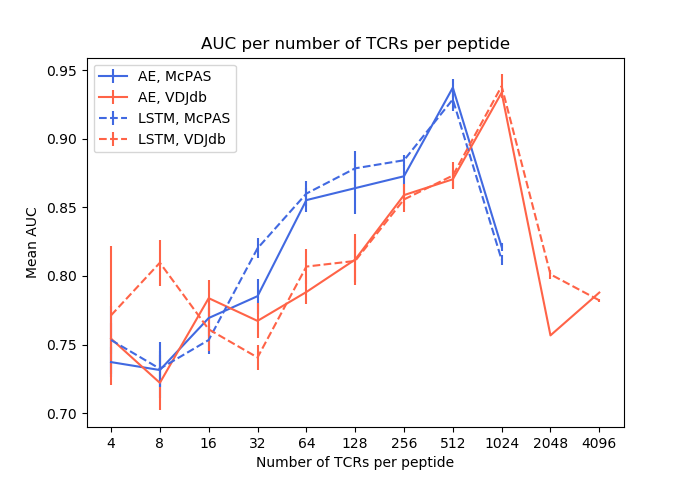
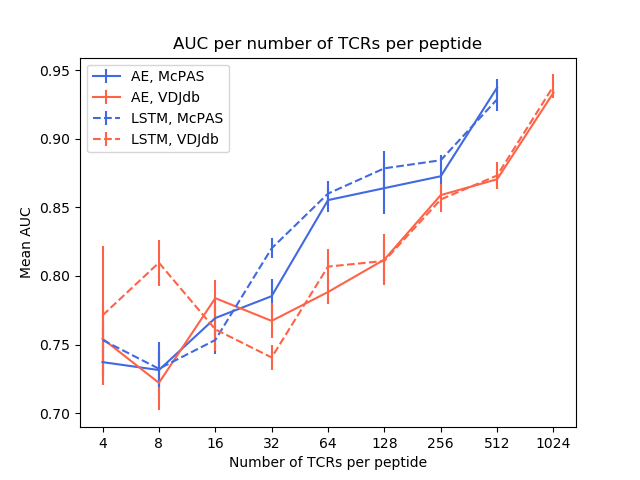
figure updates

diff --git a/plots.py b/plots.py
@@ -8,6 +8,7 @@ import ergo_data_loader
 from scipy import stats
 from sklearn.metrics import roc_auc_score
 
+
 # Table 1 - SPB
 def spb_auc(args, peps):
     dir = 'final_results'
@@ -21,6 +22,32 @@ def spb_auc(args, peps):
         for k, pep in enumerate(peps):
             try:
                 auc = eval.single_peptide_score(args, model, test_data, pep, None)[0]
+                # print(pep, auc)
+                aucs[k, i - 1] = auc
+            except ValueError:
+                print('None')
+            except IndexError:
+                print('None')
+    print(aucs)
+    aucs = ma.array(aucs, mask=aucs == 0)
+    # print(aucs)
+    print(ma.mean(aucs, axis=1))
+
+
+def protein_auc(args):
+    dir = 'final_results'
+    protein_peps = eval.protein_pep_dict(args)
+    proteins = eval.freq_proteins(args, 5)[0]
+    aucs = np.zeros((len(proteins), 5))
+    for i in range(1, 5 + 1):
+        args.model_file = dir + '/' + '_'.join([args.model_type, args.dataset + str(i) + '.pt'])
+        args.train_data_file = dir + '/' + '_'.join([args.model_type, args.dataset, 'train' + str(i) + '.pickle'])
+        args.test_data_file = dir + '/' + '_'.join([args.model_type, args.dataset, 'test' + str(i) + '.pickle'])
+        model, data = eval.load_model_and_data(args)
+        train_data, test_data = data
+        for k, protein in enumerate(proteins):
+            try:
+                auc = eval.single_protein_score(args, model, test_data, protein, protein_peps)[0]
                 # print(pep, auc)
                 aucs[k, i - 1] = auc
             except ValueError:
@@ -96,7 +123,7 @@ def mps_acc(args):
     dkeys = {'mcpas': 0, 'vdjdb': 1}
     num_classes = 10
     iterations = 5
-    acc_matrix = np.zeros((2, 2, num_classes - 1, iterations))
+    acc_matrix = np.zeros((2, 2, num_classes - 1 + len([20, 30]), iterations))
     for model_type in mkeys.keys():
         args.model_type = model_type
         for dataset in dkeys.keys():
@@ -108,21 +135,27 @@ def mps_acc(args):
                 model, data = eval.load_model_and_data(args)
                 train_data, test_data = data
                 new_test_tcrs, new_test_peps = eval.extract_new_tcrs_and_peps(train_data, test_data)
-                _, accs = eval.multi_peptide_score(args, model, test_data, new_test_tcrs, num_classes)
+                _, accs = eval.multi_peptide_score(args, model, test_data, new_test_tcrs, 30)
                 print(accs)
-                acc_matrix[mkeys[model_type], dkeys[dataset], :, iter - 1] = accs
+                acc_matrix[mkeys[model_type], dkeys[dataset], :num_classes - 1, iter - 1] = accs[:num_classes - 1]
+                acc_matrix[mkeys[model_type], dkeys[dataset], -2, iter - 1] = accs[20 - 2]
+                acc_matrix[mkeys[model_type], dkeys[dataset], -1, iter - 1] = accs[-1]
     print(acc_matrix)
     mean = np.mean(acc_matrix, axis=3)
     std = np.std(acc_matrix, axis=3)
     classes = range(2, num_classes + 1)
-    plt.errorbar(classes, mean[0, 0], yerr=std[0, 0], label='AE, McPAS', color='royalblue', linestyle='-')
-    plt.errorbar(classes, mean[0, 1], yerr=std[0, 0], label='AE, VDJdb', color='tomato', linestyle='-')
-    plt.errorbar(classes, mean[1, 0], yerr=std[1, 0], label='LSTM, McPAS', color='royalblue', linestyle='--')
-    plt.errorbar(classes, mean[1, 1], yerr=std[1, 1], label='LSTM, VDJdb', color='tomato', linestyle='--')
+    plt.errorbar(classes, mean[0, 0, :num_classes - 1], yerr=std[0, 0, :num_classes - 1], label='AE, McPAS', color='royalblue', linestyle='-')
+    plt.errorbar([num_classes+1,num_classes+2], mean[0, 0, -2:], yerr=std[0, 0, -2:], color='royalblue', fmt='o')
+    plt.errorbar(classes, mean[0, 1, :num_classes - 1], yerr=std[0, 0, :num_classes - 1], label='AE, VDJdb', color='tomato', linestyle='-')
+    plt.errorbar([num_classes+1,num_classes+2], mean[0, 1, -2:], yerr=std[0, 1, -2:], color='tomato', fmt='o')
+    plt.errorbar(classes, mean[1, 0, :num_classes - 1], yerr=std[1, 0, :num_classes - 1], label='LSTM, McPAS', color='royalblue', linestyle='--')
+    plt.errorbar([num_classes+1,num_classes+2], mean[1, 0, -2:], yerr=std[1, 0, -2:], color='royalblue', fmt='o')
+    plt.errorbar(classes, mean[1, 1, :num_classes - 1], yerr=std[1, 1, :num_classes - 1], label='LSTM, VDJdb', color='tomato', linestyle='--')
+    plt.errorbar([num_classes+1,num_classes+2], mean[1, 1, -2:], yerr=std[1, 1, -2:], color='tomato', fmt='o')
     plt.legend()
     plt.title('MPS Accuracy per number of classes')
     plt.xlabel('Number of classes')
-    plt.xticks(classes)
+    plt.xticks(range(2, num_classes + 1 + 2), list(classes) + [20, 30])
     plt.ylabel('Mean accuracy')
     plt.show()
 
@@ -314,6 +347,8 @@ def num_tcrs_bins_auc(args):
                 for pep in pep_probs:
                     samples_count = len(pep_probs[pep])
                     bin = int(np.floor(np.log2(samples_count)))
+                    if bin >= 10:
+                        print(pep)
                     try:
                         bins[bin].extend(pep_probs[pep])
                     except KeyError:
@@ -328,11 +363,11 @@ def num_tcrs_bins_auc(args):
     print(bin_aucs)
     mean = np.mean(bin_aucs, axis=2)
     sem = stats.sem(bin_aucs, axis=2)
-    xbins = range(2, 13)
-    plt.errorbar(xbins, mean[0, 0][2:13], yerr=sem[0, 0][2:13], label='AE, McPAS', color='royalblue', linestyle='-')
-    plt.errorbar(xbins, mean[0, 1][2:13], yerr=sem[0, 0][2:13], label='AE, VDJdb', color='tomato', linestyle='-')
-    plt.errorbar(xbins, mean[1, 0][2:13], yerr=sem[1, 0][2:13], label='LSTM, McPAS', color='royalblue', linestyle='--')
-    plt.errorbar(xbins, mean[1, 1][2:13], yerr=sem[1, 1][2:13], label='LSTM, VDJdb', color='tomato', linestyle='--')
+    xbins = range(2, 11)
+    plt.errorbar(xbins[:-1], mean[0, 0][2:10], yerr=sem[0, 0][2:10], label='AE, McPAS', color='royalblue', linestyle='-')
+    plt.errorbar(xbins, mean[0, 1][2:11], yerr=sem[0, 0][2:11], label='AE, VDJdb', color='tomato', linestyle='-')
+    plt.errorbar(xbins[:-1], mean[1, 0][2:10], yerr=sem[1, 0][2:10], label='LSTM, McPAS', color='royalblue', linestyle='--')
+    plt.errorbar(xbins, mean[1, 1][2:11], yerr=sem[1, 1][2:11], label='LSTM, VDJdb', color='tomato', linestyle='--')
     plt.legend()
     plt.title('AUC per number of TCRs per peptide')
     plt.xlabel('Number of TCRs per peptide')
@@ -371,8 +406,14 @@ if __name__ == '__main__':
         peptides = ['GLCTLVAML', 'NLVPMVATV', 'GILGFVFTL']
         spb_roc(args, peptides)
     elif args.function == 'spb_auc':
+        print('Dash peptides')
         peptides = ['GLCTLVAML', 'NLVPMVATV', 'GILGFVFTL']
         spb_auc(args, peptides)
+        print('20 Frequent peptides')
+        freq = eval.freq_proteins(args, 5)[2]
+        print(freq)
+        spb_auc(args, freq)
+        '''
         vdjdb_peps = ["IPSINVHHY", "TPRVTGGGAM", "NLVPMVATV", "GLCTLVAML", "RAKFKQLL",
                       "YVLDHLIVV", "GILGFVFTL", "PKYVKQNTLKLAT", "CINGVCWTV", "KLVALGINAV",
                       "ATDALMTGY", "RPRGEVRFL", "LLWNGPMAV", "GTSGSPIVNR", "GTSGSPIINR",
@@ -380,6 +421,7 @@ if __name__ == '__main__':
                       "GPGHKARVL", "FLKEKGGL"]
         if args.dataset == 'vdjdb':
             spb_auc(args, vdjdb_peps)
+        '''
     elif args.function == 'ttp':
         ttp_roc(args)
     elif args.function == 'mis_pos':
@@ -390,4 +432,7 @@ if __name__ == '__main__':
         tcr_per_pep_dist()
     elif args.function == 'tcr_count_auc':
         num_tcrs_bins_auc(args)
+    elif args.function == 'protein':
+        protein_auc(args)
+
 

diff --git a/evaluation_methods.py b/evaluation_methods.py
@@ -120,9 +120,9 @@ def extract_new_tcrs_and_peps(train_data, test_data):
     new_test_peps = set(test_peps).difference(set(train_peps))
     # print(len(new_test_tcrs), len(set(test_tcrs)))
     # print(len(new_test_peps), len(set(test_peps)), len(set(train_peps)))
-    print('test data', len(test_data))
-    print('new test tcrs', len(new_test_tcrs))
-    print('new test peps', len(new_test_peps))
+    # print('test data', len(test_data))
+    # print('new test tcrs', len(new_test_tcrs))
+    # print('new test peps', len(new_test_peps))
     return new_test_tcrs, new_test_peps
 
 
@@ -136,6 +136,133 @@ def single_peptide_score(args, model, test_data, pep, neg_type=None):
     signs_to_prob = {'n': 0.0, 'p': 1.0}
     signs = [signs_to_prob[p[2]] for p in test_data if p[1][0] == pep]
     peps = [pep] * len(tcrs)
+
+    # todo find a way to global it
+    # Word to index dictionary
+    amino_acids = [letter for letter in 'ARNDCEQGHILKMFPSTWYV']
+    if args.model_type == 'lstm':
+        amino_to_ix = {amino: index for index, amino in enumerate(['PAD'] + amino_acids)}
+    if args.model_type == 'ae':
+        pep_atox = {amino: index for index, amino in enumerate(['PAD'] + amino_acids)}
+        tcr_atox = {amino: index for index, amino in enumerate(amino_acids + ['X'])}
+    max_len = 28
+    batch_size = 50
+
+    if args.model_type == 'ae':
+        test_batches = ae.get_full_batches(tcrs, peps, signs, tcr_atox, pep_atox, batch_size, max_len)
+        test_auc, roc = ae.evaluate_full(model, test_batches, args.device)
+    if args.model_type == 'lstm':
+        lstm.convert_data(tcrs, peps, amino_to_ix)
+        test_batches = lstm.get_full_batches(tcrs, peps, signs, batch_size, amino_to_ix)
+        test_auc, roc = lstm.evaluate_full(model, test_batches, args.device)
+    return test_auc, roc
+
+
+def protein_pep_dict(args):
+    if args.dataset == 'mcpas':
+        datafile = r'data/McPAS-TCR.csv'
+    elif args.dataset == 'vdjdb':
+        datafile = r'data/VDJDB_complete.tsv'
+    protein_peps = {}
+    with open(datafile, 'r', encoding='unicode_escape') as file:
+        file.readline()
+        if args.dataset == 'mcpas':
+            reader = csv.reader(file)
+        elif args.dataset == 'vdjdb':
+            reader = csv.reader(file, delimiter='\t')
+        for line in reader:
+            if args.dataset == 'mcpas':
+                pep, protein = line[11], line[9]
+                if protein == 'NA' or pep == 'NA':
+                    continue
+            elif args.dataset == 'vdjdb':
+                pep, protein = line[9], line[10]
+                if protein == 'NA' or pep == 'NA':
+                    continue
+            try:
+                protein_peps[protein].append(pep)
+            except KeyError:
+                protein_peps[protein] = [pep]
+    return protein_peps
+
+
+def freq_proteins(args, k):
+    if args.dataset == 'mcpas':
+        datafile = r'data/McPAS-TCR.csv'
+    elif args.dataset == 'vdjdb':
+        datafile = r'data/VDJDB_complete.tsv'
+    proteins = {}
+    peptides = {}
+    with open(datafile, 'r', encoding='unicode_escape') as file:
+        file.readline()
+        if args.dataset == 'mcpas':
+            reader = csv.reader(file)
+        elif args.dataset == 'vdjdb':
+            reader = csv.reader(file, delimiter='\t')
+        for line in reader:
+            if args.dataset == 'mcpas':
+                pep, protein = line[11], line[9]
+                if protein == 'NA' or pep == 'NA':
+                    continue
+            elif args.dataset == 'vdjdb':
+                pep, protein = line[9], line[10]
+                if protein == 'NA' or pep == 'NA':
+                    continue
+            try:
+                proteins[protein] += 1
+            except KeyError:
+                proteins[protein] = 1
+            try:
+                peptides[pep] += 1
+            except KeyError:
+                peptides[pep] = 1
+    freq_proteins = sorted(proteins, key=lambda x: proteins[x], reverse=True)
+    freq_peps = sorted(peptides, key=lambda x: peptides[x], reverse=True)
+    counting = {k: v for k, v in sorted(peptides.items(), key=lambda item: item[1], reverse=True)}
+    print(freq_proteins[:k], freq_peps[:k])
+    return freq_proteins[:k], freq_peps[:k], [p for p in counting if counting[p] > 50]
+
+'''
+def freq_proteins(args, k):
+    if args.dataset == 'mcpas':
+        datafile = r'data/McPAS-TCR.csv'
+    elif args.dataset == 'vdjdb':
+        datafile = r'data/VDJDB_complete.tsv'
+    proteins = {}
+    with open(datafile, 'r', encoding='unicode_escape') as file:
+        file.readline()
+        if args.dataset == 'mcpas':
+            reader = csv.reader(file)
+        elif args.dataset == 'vdjdb':
+            reader = csv.reader(file, delimiter='\t')
+        for line in reader:
+            if args.dataset == 'mcpas':
+                pep, protein = line[11], line[9]
+                if protein == 'NA' or pep == 'NA':
+                    continue
+            elif args.dataset == 'vdjdb':
+                pep, protein = line[9], line[10]
+                if protein == 'NA' or pep == 'NA':
+                    continue
+            try:
+                proteins[protein] += 1
+            except KeyError:
+                proteins[protein] = 1
+    freq = sorted(proteins, key=lambda x: proteins[x], reverse=True)
+    print(freq[:k])
+    return freq[:k]
+'''
+
+
+def single_protein_score(args, model, test_data, protein, protein_peps):
+    # positive examples - tcr in test that bind a pep belongs to the protein
+    # negative examples - tcr in test that do not bind a pep belongs to the protein
+
+    # Get pep-relevant data
+    tcrs = [p[0] for p in test_data if p[1][0] in protein_peps[protein]]
+    signs_to_prob = {'n': 0.0, 'p': 1.0}
+    signs = [signs_to_prob[p[2]] for p in test_data if p[1][0] in protein_peps[protein]]
+    peps = [p[1][0] for p in test_data if p[1][0] in protein_peps[protein]]
 
     # todo find a way to global it
     # Word to index dictionary
